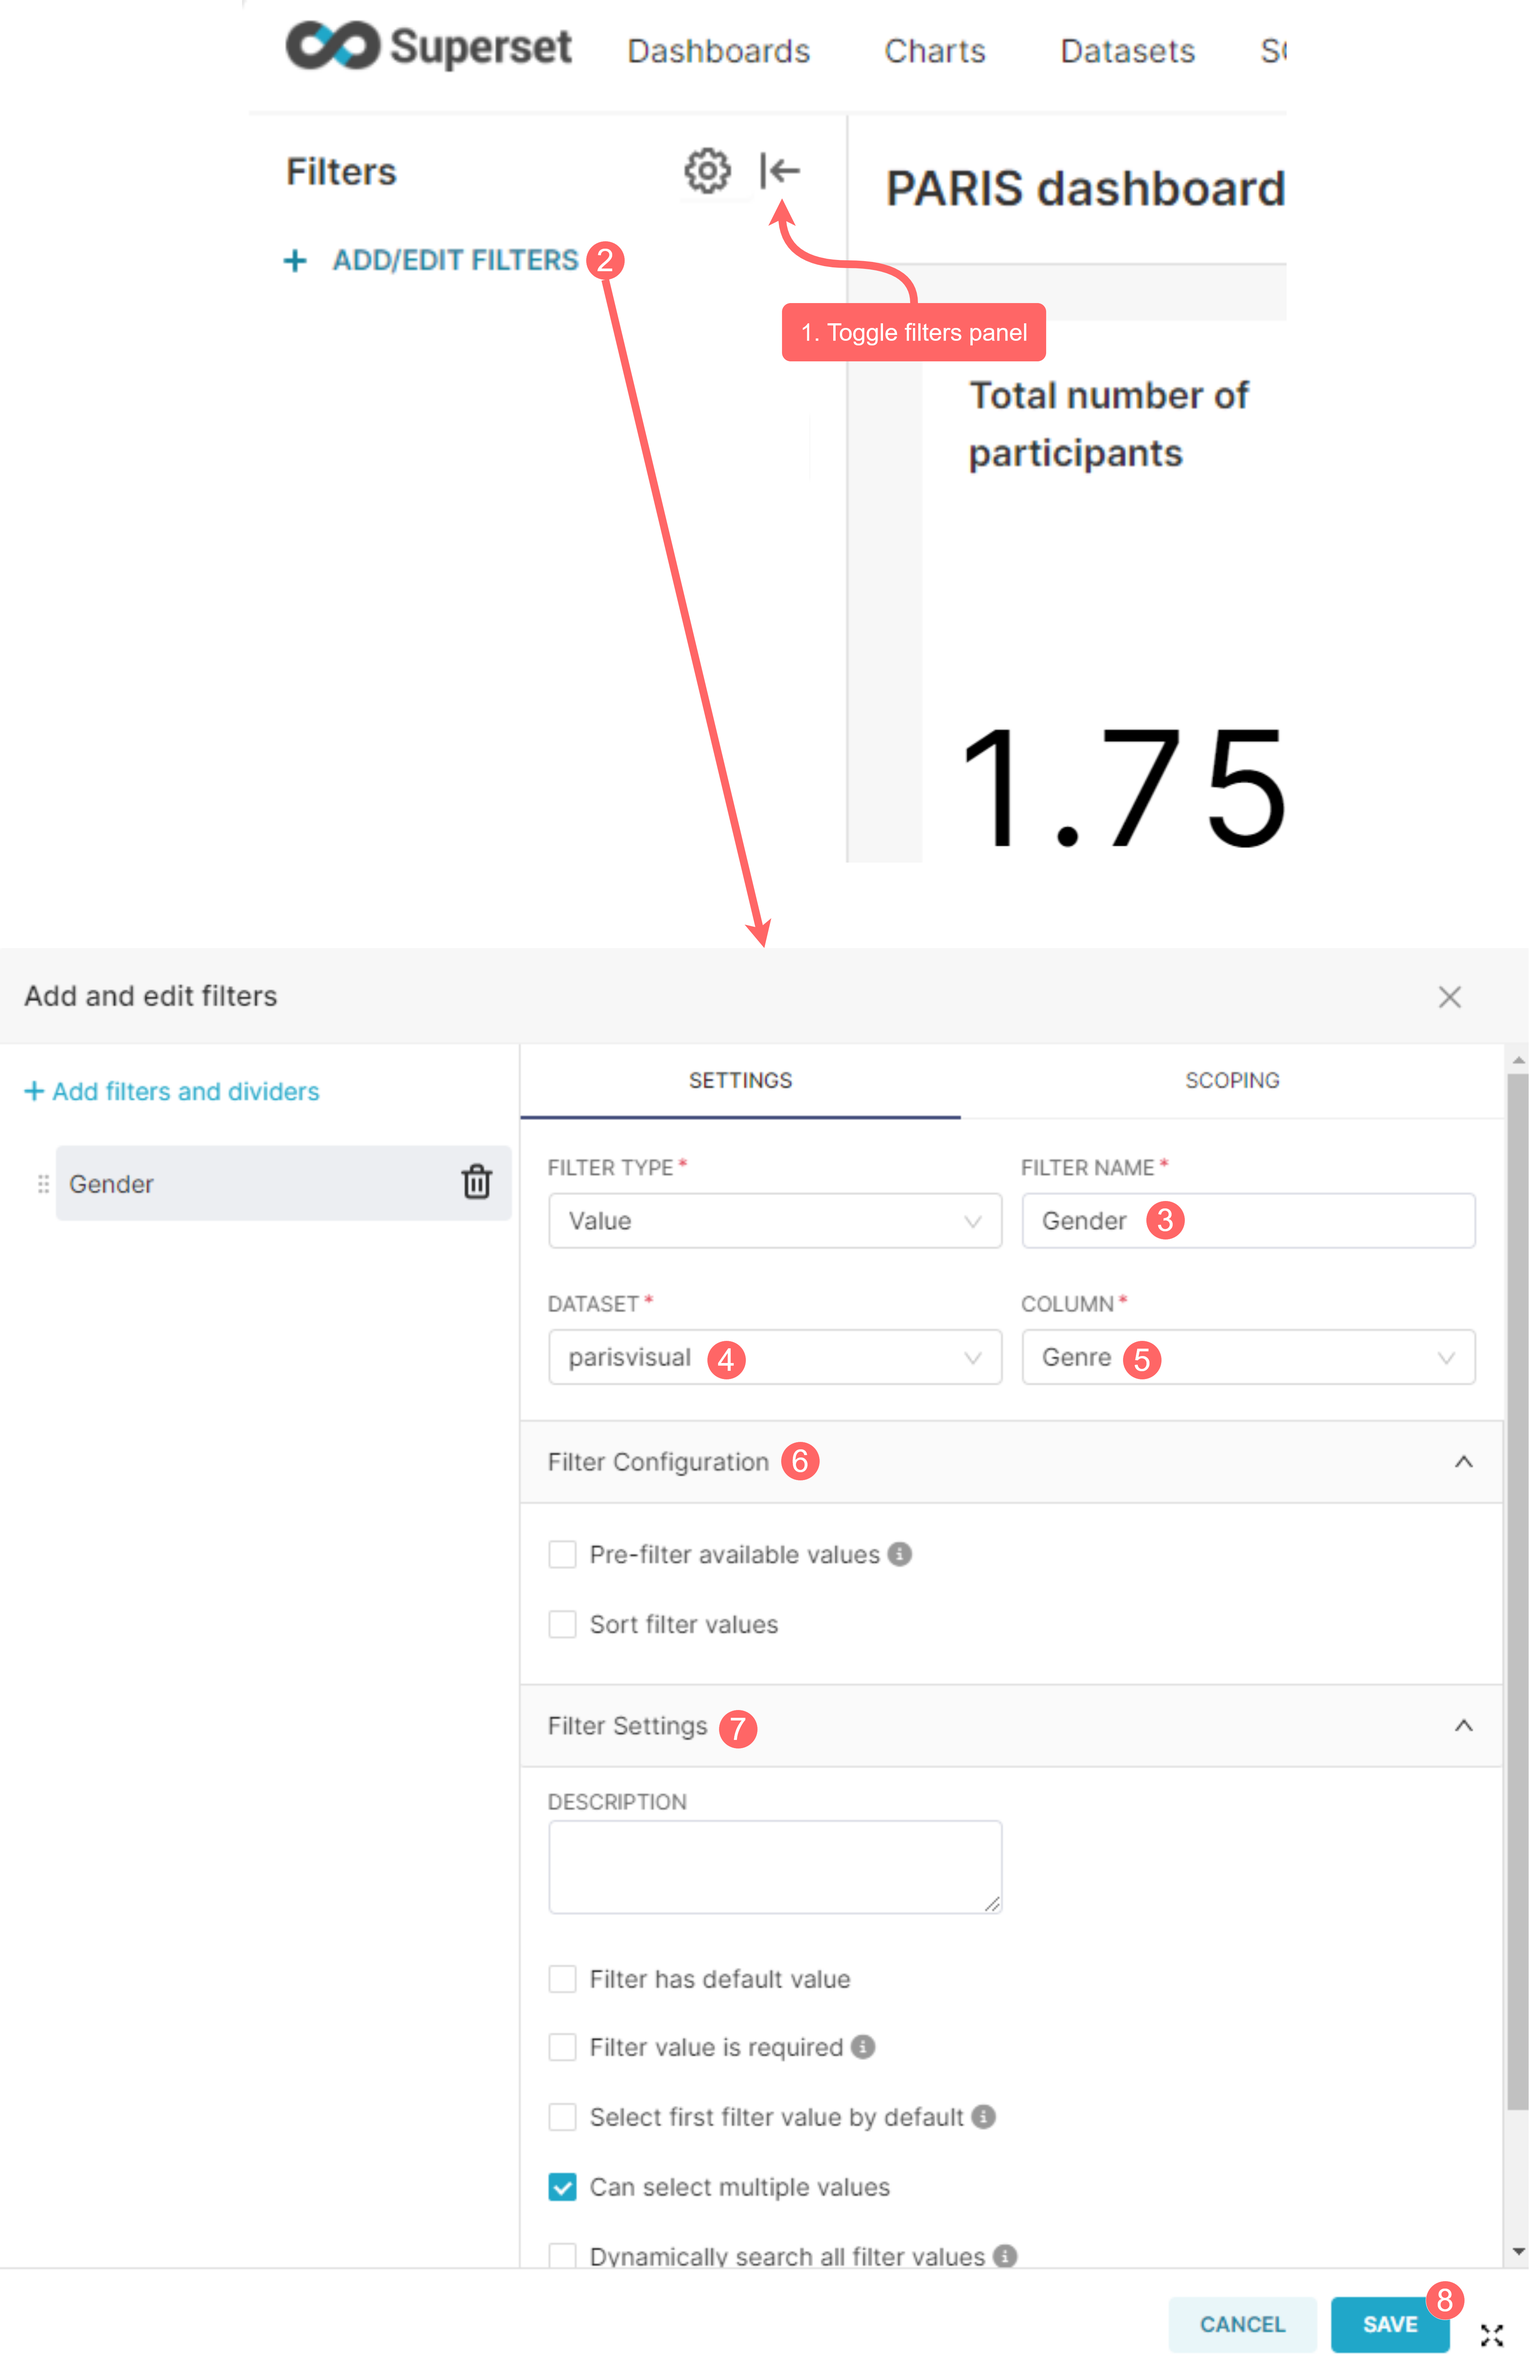
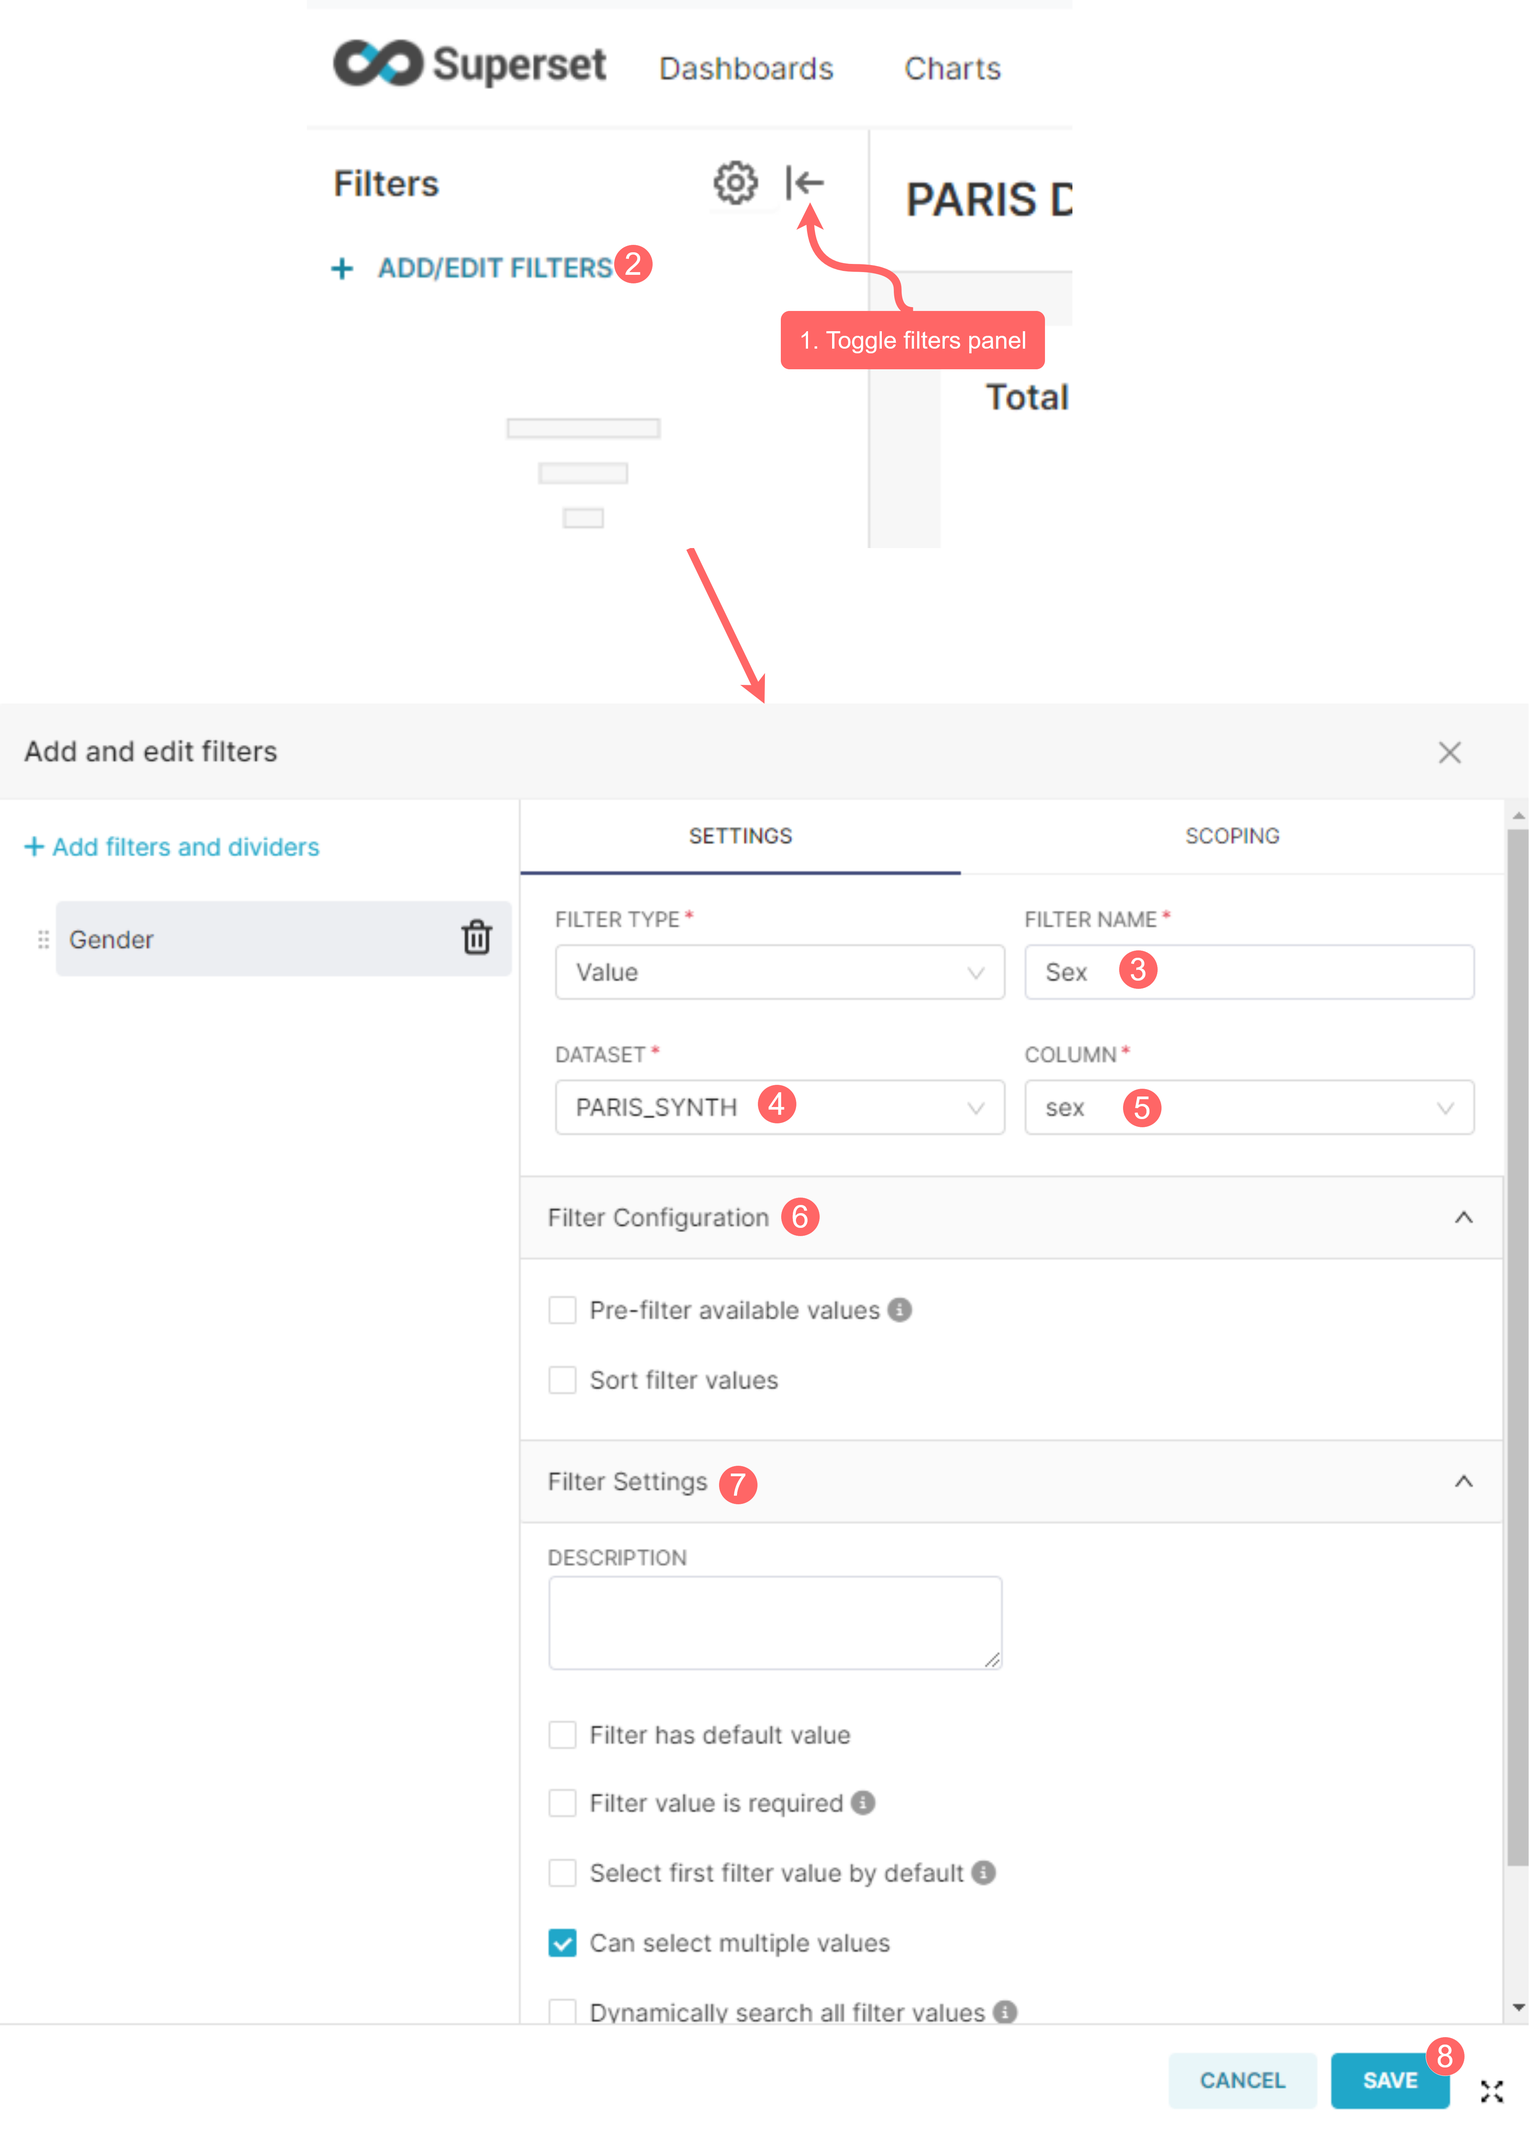
GITBOOK-263: No subject

diff --git a/proofs-of-concept/the-paris-demo/superset.md b/proofs-of-concept/the-paris-demo/superset.md
@@ -18,46 +18,16 @@ _Please ensure you have_ [_launched and connected to Superset within MEDomics._]
 
 ### Initial steps
 
-Once you are connected and have access to the Superset dashboard, the next step is updating some security settings to enable external data upload. To do so, click on _Settings_, then _Database Connections_, select _Edit_ on the _examples_ dataset, which is available by default in the database connections list. Finally, under the _Security_ section, in the _Advanced_ tab, enable "_Allow file uploads to database_." These steps are summarized in the figure below.
+1. **Importing the paris.db**
+
+Once you are [connected](../../tutorials/superset/#launch-superset-button) and have access to the Superset dashboard, the next step is uploading the PARIS database. First, you need to download this ready-to-use _examples_ database: [link](https://mcgill-my.sharepoint.com/:u:/g/personal/mahdi_aitlhajloutfi_mail_mcgill_ca/IQB1YPlvgRa4RLYTzoElDazSAUMooE2Qe0hXZaHiW8Q7TXE?e=H3O9ny). Second, click on _Settings_, then _Database Connections_, and click the + DATABASE button in the top right. In the "Choose a database" modal, select SQLite. Enter the SQLAlchemy URI using the path to the `paris.db` file. The path must be prefixed by `sqlite:///` for Windows users and by `sqlite:////`  for MacOS and Linux users. For example:
+
+* _MacOS/Ubuntu : `sqlite:////Users/Download/paris.db`_
+* _Windows : `sqlite:///C:\Users\Downloads\paris.db`_
+
+All the steps are summarized in the figures below:
 
 <figure><img src="../../.gitbook/assets/allowCSV1.png" alt="" width="188"><figcaption><p>Fig 1 - Step 1: open database connections</p></figcaption></figure>
-
-{% hint style="danger" icon="heart-crack" %}
-You can't find the _**examples**_ database? Don't worry, follow another approach [here](superset.md#i-cant-find-the-examples-database).
-{% endhint %}
-
-<figure><img src="../../.gitbook/assets/allowCSV2.png" alt="" width="563"><figcaption><p>Fig 2 - Step 2: edit examples database connection</p></figcaption></figure>
-
-<figure><img src="../../.gitbook/assets/allowCSV3.png" alt="" width="375"><figcaption><p>Fig 3 - Step 3: find advanced security settings</p></figcaption></figure>
-
-<figure><img src="../../.gitbook/assets/allowCSV4.png" alt="" width="375"><figcaption><p>Fig 4 - Step 4: allow CSV files upload</p></figcaption></figure>
-
-### Data visualization
-
-#### _Upload Data_
-
-Now that we have allowed CSV files to be uploaded to Superset, we can upload the PARIS data to start visualizing it. To do so, click the "+" icon to your right, select Data, then click "Upload CSV to database". Fill in the required information and click _Import_. The instructions are depicted in the figures below:
-
-<figure><img src="../../.gitbook/assets/UploadCSV1.png" alt=""><figcaption><p>Fig 5 - Step 1: uploading a CSV file to Superset</p></figcaption></figure>
-
-<figure><img src="../../.gitbook/assets/UploadCSV2.png" alt="" width="375"><figcaption><p>Fig 6 - Step 2: Fill in all the required info for the CSV upload</p></figcaption></figure>
-
-<figure><img src="../../.gitbook/assets/UploadCSV3.png" alt=""><figcaption><p>Fig 7 - Optional step: ensure the data is uploaded</p></figcaption></figure>
-
-<details>
-
-<summary>I can't find the <em><strong>examples</strong></em> database</summary>
-
-First, you need to download this ready-to-use _examples_ database: [link](https://mcgill-my.sharepoint.com/:u:/g/personal/mahdi_aitlhajloutfi_mail_mcgill_ca/IQB1YPlvgRa4RLYTzoElDazSAUMooE2Qe0hXZaHiW8Q7TXE?e=H3O9ny).
-
-Second, you need to tell Superset to create a database file in a location your Electron app can write to.
-
-1. Click the + DATABASE button in the top right of the Database Connections page.
-2. In the "Select a database" modal, choose SQLite.
-3. SQLAlchemy URI: Use a path within your application support folder.
-   * MacOS Example: `sqlite:////Users/Download/examples.db`
-   * Windows Example: `sqlite:///C:\Users\Downloads\examples.db`
-   * _**Note: Use four slashes****&#x20;****`////`****&#x20;****for absolute paths on Mac/Linux.**_
 
 <figure><img src="../../.gitbook/assets/NewDB1.png" alt=""><figcaption><p>Step 1: Click the + DATABASE button in the top right</p></figcaption></figure>
 
@@ -65,19 +35,23 @@ Second, you need to tell Superset to create a database file in a location your E
 
 <figure><img src="../../.gitbook/assets/NewDB3.png" alt="" width="375"><figcaption><p>Step 3: Set database path and conenct it</p></figcaption></figure>
 
-YOU DON'T NEED TO UPLOAD THE PARIS DATASET. It comes included with the .db file, and you can skip to chart creation.
+2. **Creating the PARIS dataset**
 
-</details>
+Importing the `paris.db` The file does not automatically create the PARIS dataset in your Superset; you need to do it manually. First, go to the Datasets tab, and click the + Dataset button in the top right. Then select SQLite as the DATABASE, main as the SCHEMA, and PARIS\_SYNTH as the TABLE. The steps are summarized in the following figure:
+
+<figure><img src="../../.gitbook/assets/CreateDataset.png" alt=""><figcaption><p>Imporing the PARIS table</p></figcaption></figure>
+
+### Data visualization
 
 #### _Charts Creation_
 
-Once your PARIS dataset is created, you can choose to create from a variety of charts. For example, we can create a pie chart to visualize differences in Genders among our questionnaire participants. The figure below shows the steps to follow:
+Once your PARIS table is imported, you can choose to create from a variety of charts. For example, we can create a pie chart to visualize differences in sex among our questionnaire participants. The figure below shows the steps to follow:
 
 <figure><img src="../../.gitbook/assets/CreateNewPieChart.png" alt=""><figcaption><p>Fig 8 - Create a new pie chart</p></figcaption></figure>
 
-After creating the chart, we will select the information we would like to visualize. To do so, look up the column Gender and drag it to the Dimension box. Second, in the metric box, select the metric to display (COUNT). Finally, hit "Create Chart" to generate the chart, which should appear to the right of your screen. Once you're satisfied with your final chart, you can click "SAVE" to save it and add it to a dashboard.
+After creating the chart, we will select the information we would like to visualize. To do so, look up the column Sex and drag it to the Dimension box. Second, in the metric box, select the metric to display (COUNT). Finally, hit "Create Chart" to generate the chart, which should appear to the right of your screen. Once you're satisfied with your final chart, you can click "SAVE" to save it and add it to a dashboard.
 
-<figure><img src="../../.gitbook/assets/GenderPieChart.png" alt=""><figcaption><p>Fig 9 - Create a Pie Chart for Gender data</p></figcaption></figure>
+<figure><img src="../../.gitbook/assets/SexPieChart.png" alt=""><figcaption><p>Fig 9 - Create a Pie Chart for Sex distribution</p></figcaption></figure>
 
 In this proof of concept, we suggest the creation of three charts, using the following configurations to create each one of them:
 
@@ -86,13 +60,6 @@ In this proof of concept, we suggest the creation of three charts, using the fol
   * Metric: _COUNT_&#x20;
 
 <figure><img src="../../.gitbook/assets/TotalParticipantsChart.png" alt="" width="375"><figcaption><p>Fig 10 - Defining total number of participants chat's settings</p></figcaption></figure>
-
-* **Gender Distribution chart**:
-  * Chart's type: _PIE CHART_
-  * Dimensions: _Gender_
-  * Metric: _COUNT_
-
-<figure><img src="../../.gitbook/assets/GenderChart.png" alt="" width="375"><figcaption><p>Fig 11 - Defining the gender distribution chat's settings</p></figcaption></figure>
 
 * **Age Distribution chart**:
   * Chart's type: _BAR CHART_
@@ -115,7 +82,7 @@ Do not hesitate to create a more beautiful dashboard!
 
 Once all your charts have been imported and organized in your dashboard, you should have a similar result:
 
-<figure><img src="../../.gitbook/assets/image (80).png" alt=""><figcaption><p>Fig 14 - PARIS final dashboard</p></figcaption></figure>
+<figure><img src="../../.gitbook/assets/image.png" alt=""><figcaption><p>Fig 14 - PARIS final dashboard</p></figcaption></figure>
 
 #### _Using Filters_
 

diff --git a/proofs-of-concept/the-paris-demo/learning-module.md b/proofs-of-concept/the-paris-demo/learning-module.md
@@ -56,9 +56,9 @@ Apply the following configurations for your nodes:
 
 * **Dataset Node**: Use the learning set created in the previous step with the target column "target". Moreover, one-hot encoding is automatically applied when using PyCaret, and since our dataset does not require it, it will be deactivated by setting the `max_encoding_ohe` to 0. You can add this option by clicking the plus button on the node and enabling it. Finally, add the session\_id option and set it to a fixed number to control the randomness of the experiment.
 
-<figure><img src="../../.gitbook/assets/image.png" alt=""><figcaption><p>Fig 27 - Dataset node configuration</p></figcaption></figure>
+<figure><img src="../../.gitbook/assets/image (1).png" alt=""><figcaption><p>Fig 27 - Dataset node configuration</p></figcaption></figure>
 
-<figure><img src="../../.gitbook/assets/image (1).png" alt=""><figcaption><p>Fig 28 - Extra option for the Dataset node</p></figcaption></figure>
+<figure><img src="../../.gitbook/assets/image (1) (1).png" alt=""><figcaption><p>Fig 28 - Extra option for the Dataset node</p></figcaption></figure>
 
 *   **Clean Node**: The default pyCaret's cleaning process already includes the necessary data processing steps, including:
 
@@ -100,7 +100,7 @@ If you would like to avoid long wait times, replace the 100-bootstrap method wit
 
 Once the scene is set up, hit the Run button, and track the execution process through the bottom progress bar. Once your results are ready, the "_**Analysis mode**_" button will be activated, and upon clicking on it, you will access the analysis panel at the bottom, where all the results will be displayed. Then select the model's performance results:
 
-<figure><img src="../../.gitbook/assets/image (1) (1).png" alt=""><figcaption><p>Fig 33 - Model results</p></figcaption></figure>
+<figure><img src="../../.gitbook/assets/image (1) (1) (3).png" alt=""><figcaption><p>Fig 33 - Model results</p></figcaption></figure>
 
 The model has reached an AUC of 0.76, which is considered good, but there is always room for improvement. This performance showcases the potential of our model. It demonstrates how users with no prior programming experience can create exploitable models, thereby proving the utility of the MEDomics platform, particularly the Learning Module.
 

diff --git a/proofs-of-concept/the-paris-demo/README.md b/proofs-of-concept/the-paris-demo/README.md
@@ -8,7 +8,7 @@ icon: wpforms
 # The PARIS Demo
 
 {% hint style="warning" %}
-The original data is not available. We have generated synthetic data using the [synthpop package](https://algorithmaudit.eu/technical-tools/sdg/), and this dataset will be released once we receive authorization from the PARIS team (expected in mid-2026).
+The original data is not available. We have generated a synthetic version using the [synthpop package](https://algorithmaudit.eu/technical-tools/sdg/), and it will be made available on Zenodo once we receive authorization from the [PARIS team](https://www.poitraslab.com/) (expected in mid-2026).
 {% endhint %}
 
 ### About the Dataset
